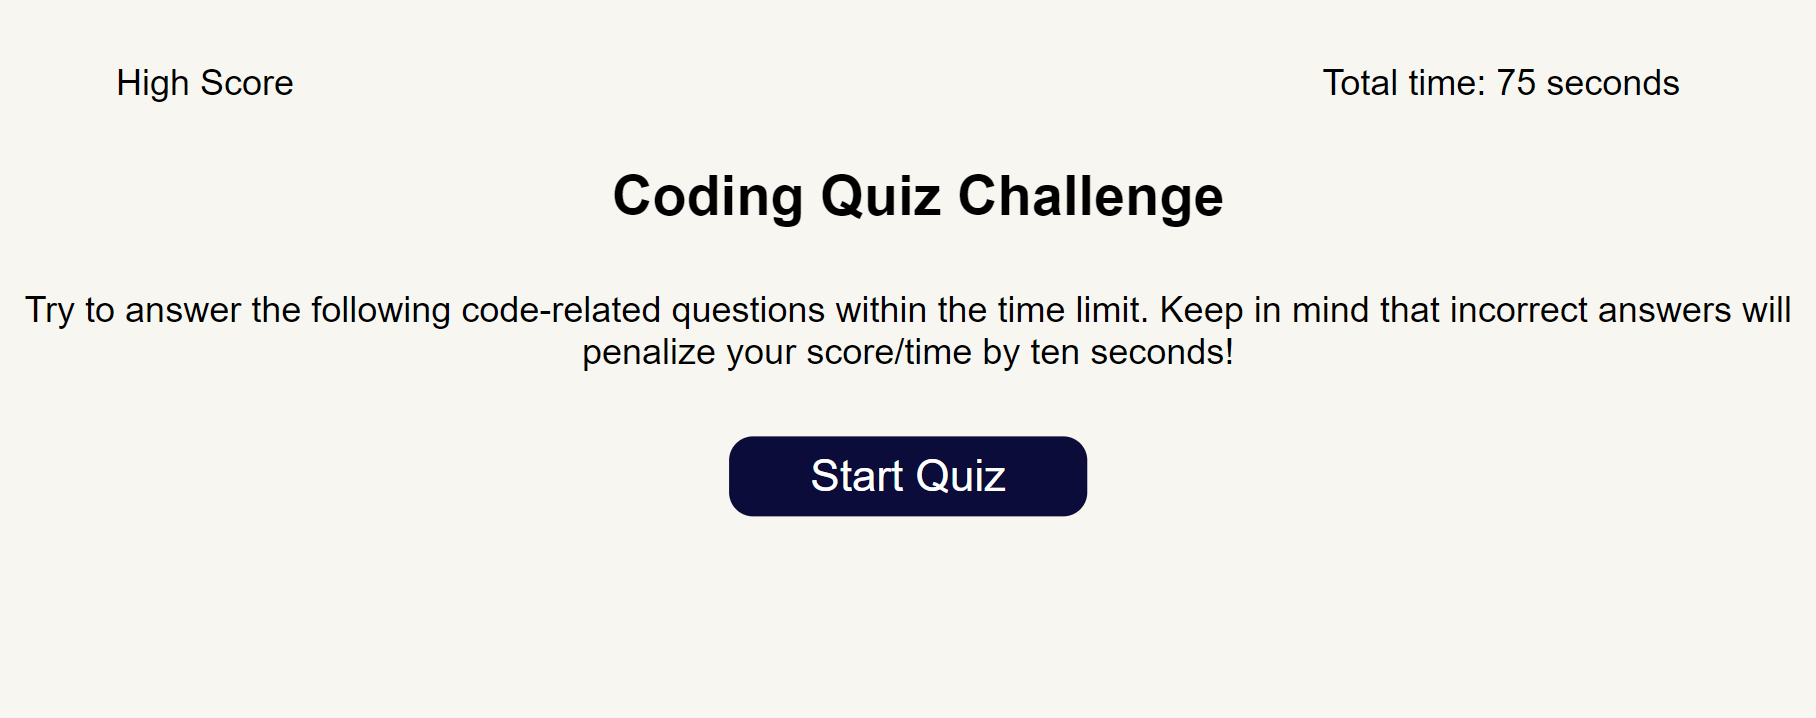
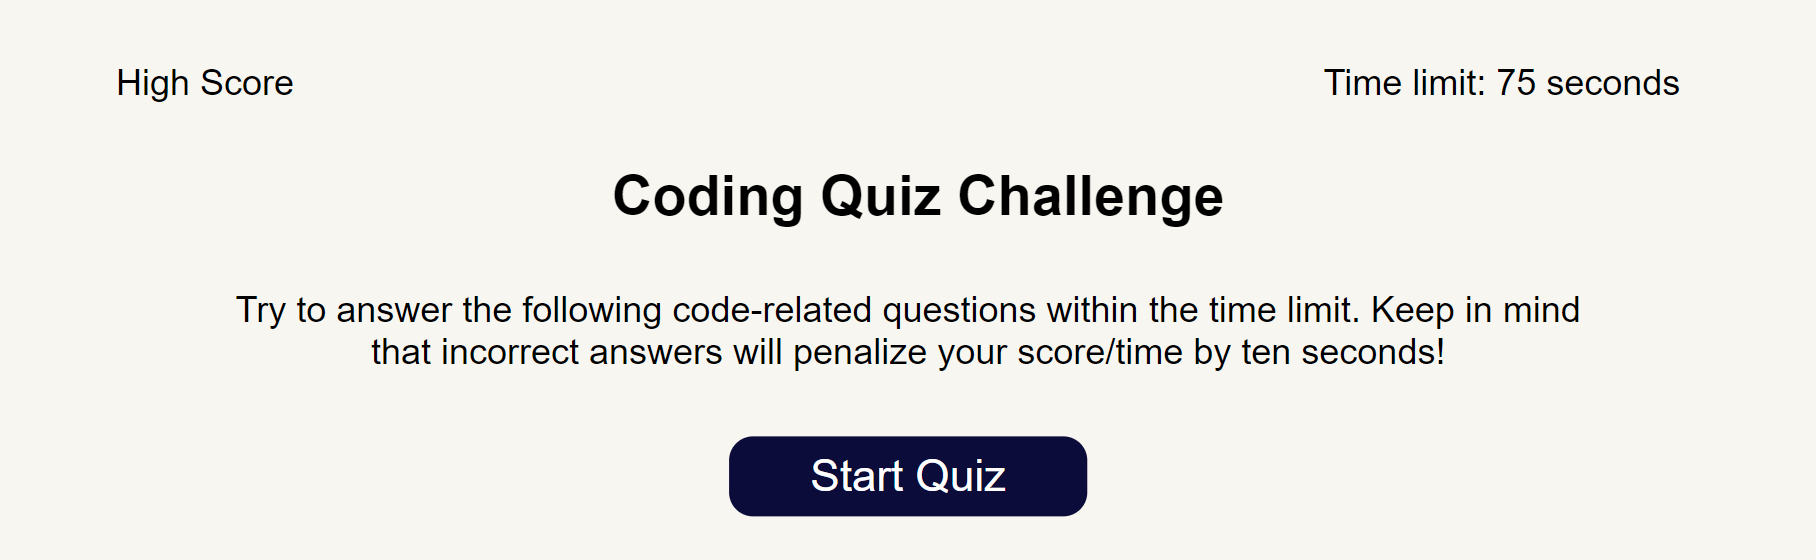
adjusted styling

diff --git a/quiz.js b/quiz.js
@@ -31,11 +31,11 @@ var startingScreen = function(){
 	
 	//HIGHSCORE and TIMER needs to be formatted to be on the same line
 	highScore.innerHTML = "High Score"
-	countdownAREA.innerHTML = "Total: "+ countdownSeconds + " seconds";
+	countdownAREA.innerHTML = "Time limit: "+ countdownSeconds + " seconds";
 	
 	
 	start.innerHTML ="<h1><center>" + "Coding Quiz Challenge" + "</center></h1>";
-	start.innerHTML +="<h4><center><p>" + "Try to answer the following code-related questions within the time limit. Keep in mind that incorrect answers will penalize your score/time by ten seconds!" + "</p></center></h3>";
+	start.innerHTML +="<h4><center><p>" + "Try to answer the following code-related questions within the time limit. Keep in mind that incorrect answers will penalize your score/time by ten seconds!" + "</p></center></h4>";
 	start.id= "startIdEd";
 	body.appendChild(start);
 
@@ -72,7 +72,7 @@ function countDownTimer() {
 		}
 	
 	    if (countdownSeconds > 1){
-		console.log("TIME LEFT: " + countdownSeconds);
+		console.log("Time left: " + countdownSeconds);
 		countdownAREA.innerHTML = "Time left: "+ countdownSeconds + " seconds";
 	    countdownSeconds--;
 		}
@@ -159,14 +159,12 @@ var secondQuestion = function()
     }
 )
 
-	start.innerHTML ="<br><hr> Question One Result: " + Q1Result;
+	start.innerHTML ="<br><hr> Q1 Result: " + Q1Result;
     body.appendChild(start);
 }
 
 var thirdQuestion = function() 
-{
- 
-  
+{  
     questionArea.innerHTML ="<h1><center>" + "<i>Q3.</i>Arrays in JavaScript can be used to store ________." + "</center></h1>";
 
     var Answers = ["1. numbers and strings", "2. other arrays", "3. booleans", "4. all of the above"];
@@ -195,7 +193,7 @@ var thirdQuestion = function()
     }
 )
 
-	start.innerHTML ="<br><hr> Question Two Result: " + Q2Result;
+	start.innerHTML ="<br><hr> Q2 Result: " + Q2Result;
     body.appendChild(start);
 } 
 
@@ -228,7 +226,7 @@ var fourthQuestion = function()
 	else{}
     }
 )
-	start.innerHTML ="<br><hr> Question Three Result: " + Q3Result;
+	start.innerHTML ="<br><hr> Q3 Result: " + Q3Result;
     body.appendChild(start);
 } 
 
@@ -262,7 +260,7 @@ var fifthQuestion = function()
 	else{}
     }
 )
-	start.innerHTML ="<br><hr> Question Four Result: " + Q4Result;
+	start.innerHTML ="<br><hr> Q4 Result: " + Q4Result;
     body.appendChild(start);
 } 
 
@@ -530,7 +528,7 @@ var finalScorePage = function()
 		initialsContainer.appendChild(initialsBtn);
 		body.appendChild(initialsContainer);
 
-	start.innerHTML ="<br><hr> Question Five Result: " + Q5Result;
+	start.innerHTML ="<br><hr> Q5 Result: " + Q5Result;
     body.appendChild(start);
 
 	initialsBtn.addEventListener("click", function() {

diff --git a/style.css b/style.css
@@ -33,6 +33,13 @@ h1{
   margin: 30px auto;
   font-size: 28px;
   color: rgb(0, 0, 0);
+  margin-right: 100px;
+  margin-left: 100px;
+}
+
+p {
+  margin-right: 100px;
+  margin-left: 100px;
 }
 
 h4{
@@ -51,11 +58,11 @@ h4{
   flex-direction: column;
 }
 
-
 .theButtonIdClass {
   align-items: center;
   text-align: left;
   display: flex;
+  padding-left: 15px;
 }
 
 button {

diff --git a/index.html b/index.html
@@ -18,7 +18,6 @@
       <div id="instructions"> </div>
       <div id="questions"> </div>
       <div id="answers"> </div>
-      <div id="error"></div>
       <div id="name"> </div>
       <div id="score"> </div>
       <ol id=”highScores”></ol>
